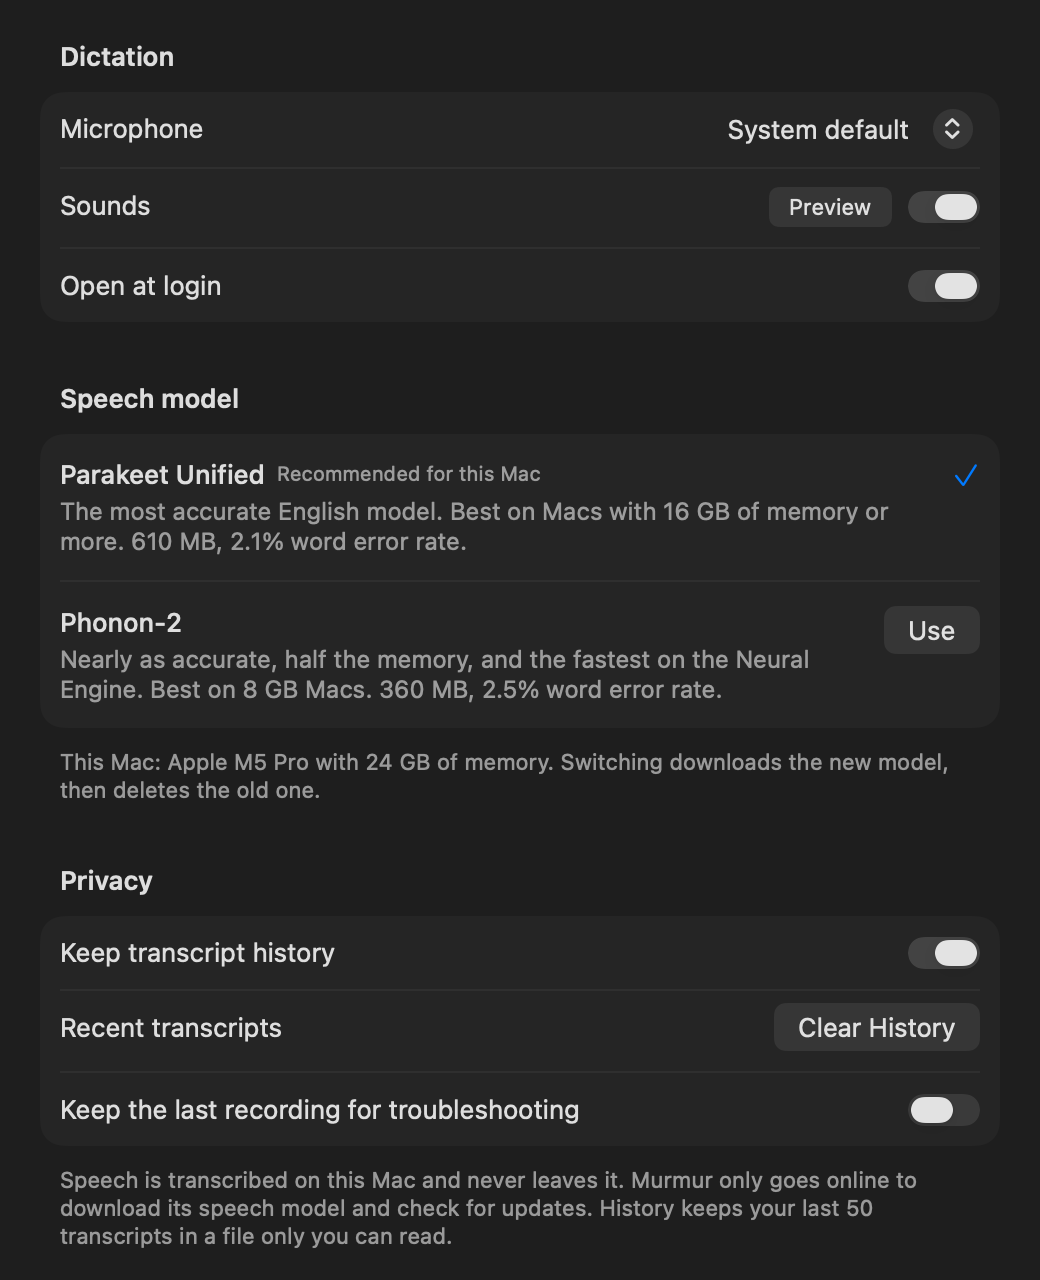
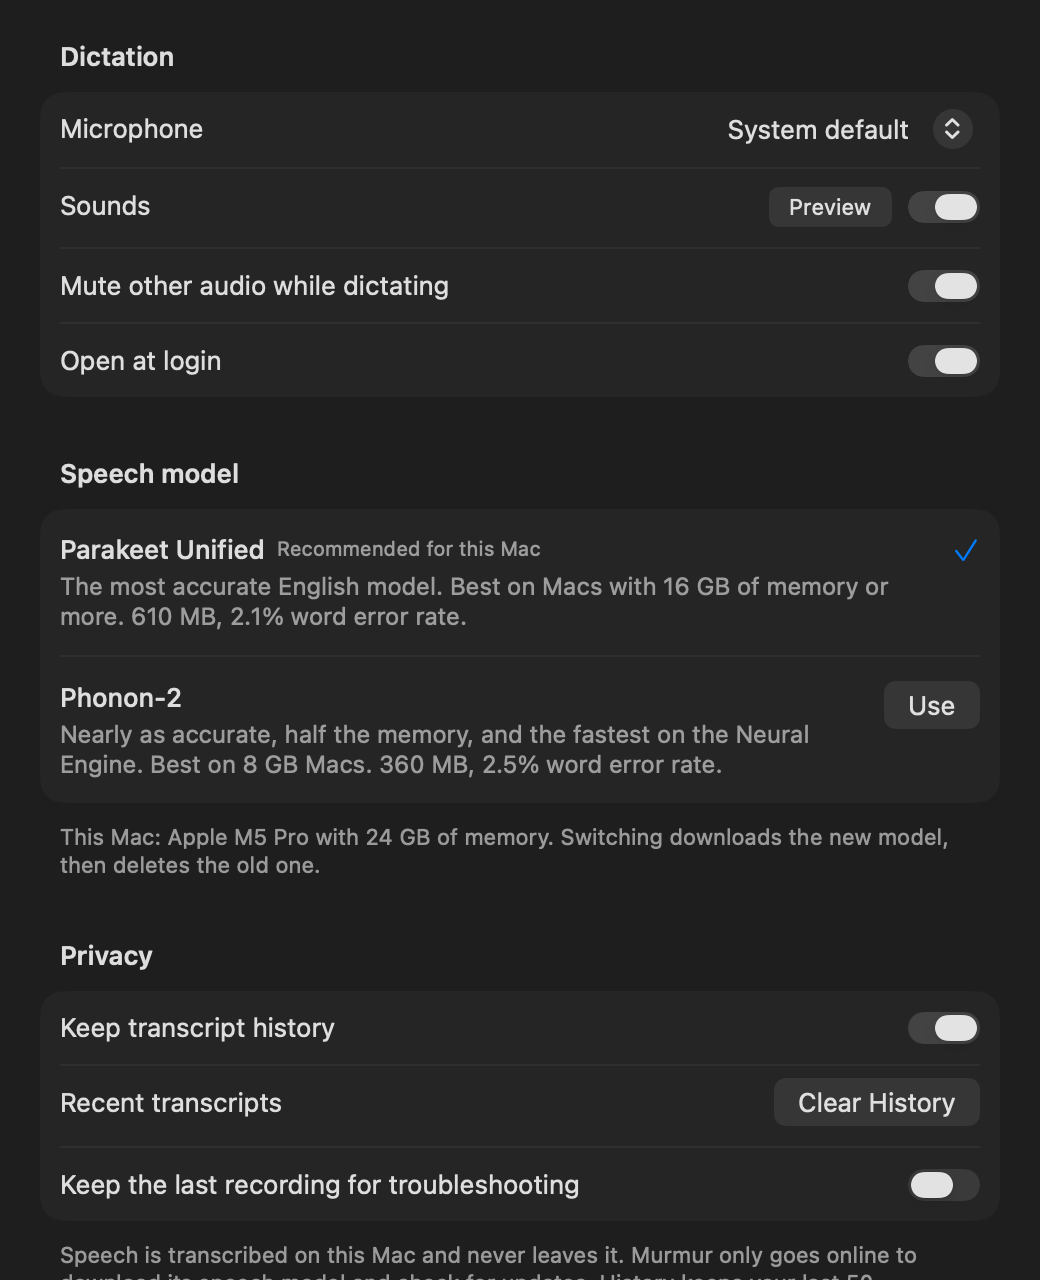
Mute other audio while dictating
On by default; turn it off in Settings. Murmur mutes the output device (or zeroes its volume if it has no mute) once the notch appears and puts it back when you let go, including after a crash.

diff --git a/Sources/Murmur/OutputMute.swift b/Sources/Murmur/OutputMute.swift
@@ -1,0 +1,109 @@
+import CoreAudio
+import Foundation
+
+/// Silences the Mac's sound output while you dictate, then puts it back the way it was.
+/// Uses the output device's mute switch, or its volume on devices without one (some HDMI and
+/// Bluetooth outputs). What to restore is saved before anything changes, so if Murmur quits
+/// mid-dictation the next launch undoes it.
+@MainActor
+enum OutputMute {
+    private static let restoreKey = "outputMuteRestore"
+
+    /// Mutes the current output device, unless it's already silent.
+    static func engage() {
+        guard UserDefaults.standard.dictionary(forKey: restoreKey) == nil,
+            let device = OutputDevice.current(),
+            let uid = AudioDevices.string(device, kAudioDevicePropertyDeviceUID)
+        else { return }
+        if OutputDevice.isSettable(device, kAudioDevicePropertyMute) {
+            let muted: UInt32? = OutputDevice.read(device, kAudioDevicePropertyMute)
+            guard muted == 0 else { return }
+            UserDefaults.standard.set(["uid": uid], forKey: restoreKey)
+            if !OutputDevice.write(device, kAudioDevicePropertyMute, UInt32(1)) { forget() }
+        } else if OutputDevice.isSettable(device, OutputDevice.virtualMainVolume) {
+            let volume: Float32? = OutputDevice.read(device, OutputDevice.virtualMainVolume)
+            guard let volume, volume > 0 else { return }
+            UserDefaults.standard.set(["uid": uid, "volume": volume], forKey: restoreKey)
+            if !OutputDevice.write(device, OutputDevice.virtualMainVolume, Float32(0)) { forget() }
+        }
+    }
+
+    /// Undoes `engage()`, including one left over from a previous run.
+    static func release() {
+        guard let saved = UserDefaults.standard.dictionary(forKey: restoreKey) else { return }
+        forget()
+        guard let uid = saved["uid"] as? String, let device = OutputDevice.withUID(uid) else { return }
+        if let volume = (saved["volume"] as? NSNumber)?.floatValue {
+            // Leave it alone if the volume was turned up in the meantime.
+            let current: Float32? = OutputDevice.read(device, OutputDevice.virtualMainVolume)
+            if current == 0 { OutputDevice.write(device, OutputDevice.virtualMainVolume, volume) }
+        } else {
+            OutputDevice.write(device, kAudioDevicePropertyMute, UInt32(0))
+        }
+    }
+
+    private static func forget() { UserDefaults.standard.removeObject(forKey: restoreKey) }
+}
+
+/// Main-element properties of sound output devices.
+enum OutputDevice {
+    /// 'vmvc' VirtualMainVolume: the 0...1 volume slider, also on devices without dB or mute controls.
+    static let virtualMainVolume = AudioObjectPropertySelector(0x766D_7663)
+
+    /// The system's default output device.
+    static func current() -> AudioDeviceID? {
+        var addr = AudioObjectPropertyAddress(
+            mSelector: kAudioHardwarePropertyDefaultOutputDevice, mScope: kAudioObjectPropertyScopeGlobal,
+            mElement: kAudioObjectPropertyElementMain)
+        var id = AudioDeviceID(0)
+        var size = UInt32(MemoryLayout<AudioDeviceID>.size)
+        let ok = AudioObjectGetPropertyData(AudioObjectID(kAudioObjectSystemObject), &addr, 0, nil, &size, &id)
+        return ok == noErr && id != 0 ? id : nil
+    }
+
+    static func withUID(_ uid: String) -> AudioDeviceID? {
+        var addr = AudioObjectPropertyAddress(
+            mSelector: kAudioHardwarePropertyTranslateUIDToDevice, mScope: kAudioObjectPropertyScopeGlobal,
+            mElement: kAudioObjectPropertyElementMain)
+        var cfUID = uid as CFString
+        var id = AudioDeviceID(0)
+        var size = UInt32(MemoryLayout<AudioDeviceID>.size)
+        let ok = withUnsafePointer(to: &cfUID) { qualifier in
+            AudioObjectGetPropertyData(
+                AudioObjectID(kAudioObjectSystemObject), &addr, UInt32(MemoryLayout<CFString>.size), qualifier,
+                &size, &id)
+        }
+        return ok == noErr && id != kAudioObjectUnknown ? id : nil
+    }
+
+    static func read<T: BitwiseCopyable & Numeric>(
+        _ device: AudioDeviceID, _ selector: AudioObjectPropertySelector,
+        element: UInt32 = kAudioObjectPropertyElementMain
+    ) -> T? {
+        var addr = address(selector, element)
+        guard AudioObjectHasProperty(device, &addr) else { return nil }
+        var value: T = 0
+        var size = UInt32(MemoryLayout<T>.size)
+        return AudioObjectGetPropertyData(device, &addr, 0, nil, &size, &value) == noErr ? value : nil
+    }
+
+    static func isSettable(_ device: AudioDeviceID, _ selector: AudioObjectPropertySelector) -> Bool {
+        var addr = address(selector, kAudioObjectPropertyElementMain)
+        var settable: DarwinBoolean = false
+        return AudioObjectHasProperty(device, &addr)
+            && AudioObjectIsPropertySettable(device, &addr, &settable) == noErr && settable.boolValue
+    }
+
+    @discardableResult
+    static func write<T: BitwiseCopyable>(_ device: AudioDeviceID, _ selector: AudioObjectPropertySelector, _ value: T)
+        -> Bool
+    {
+        var addr = address(selector, kAudioObjectPropertyElementMain)
+        var value = value
+        return AudioObjectSetPropertyData(device, &addr, 0, nil, UInt32(MemoryLayout<T>.size), &value) == noErr
+    }
+
+    private static func address(_ selector: AudioObjectPropertySelector, _ element: UInt32) -> AudioObjectPropertyAddress {
+        AudioObjectPropertyAddress(mSelector: selector, mScope: kAudioDevicePropertyScopeOutput, mElement: element)
+    }
+}

diff --git a/Sources/Murmur/SoundFX.swift b/Sources/Murmur/SoundFX.swift
@@ -170,51 +170,30 @@ private enum FixedLevel {
 
     /// nil when the output is muted.
     static func playbackVolume() -> Float? {
-        guard let device = defaultOutputDevice() else { return 0.2 }
+        guard let device = OutputDevice.current() else { return 0.2 }
         if isMuted(device) { return nil }
         let deviceDB = volumeDecibels(device) ?? virtualVolume(device).map { 40 * log10(max($0, 0.001)) }
         guard let deviceDB else { return 0.2 }
         return min(1, pow(10, (targetDecibels - deviceDB) / 20))
     }
 
-    private static func defaultOutputDevice() -> AudioDeviceID? {
-        var addr = AudioObjectPropertyAddress(
-            mSelector: kAudioHardwarePropertyDefaultOutputDevice, mScope: kAudioObjectPropertyScopeGlobal,
-            mElement: kAudioObjectPropertyElementMain)
-        var id = AudioDeviceID(0)
-        var size = UInt32(MemoryLayout<AudioDeviceID>.size)
-        let ok = AudioObjectGetPropertyData(AudioObjectID(kAudioObjectSystemObject), &addr, 0, nil, &size, &id)
-        return ok == noErr && id != 0 ? id : nil
-    }
-
     private static func isMuted(_ device: AudioDeviceID) -> Bool {
-        var muted: UInt32 = 0
-        return read(device, kAudioDevicePropertyMute, element: kAudioObjectPropertyElementMain, into: &muted) && muted != 0
+        let muted: UInt32? = OutputDevice.read(device, kAudioDevicePropertyMute)
+        return (muted ?? 0) != 0
     }
 
     /// Main (or loudest channel) attenuation in dB; 0 = full volume.
     private static func volumeDecibels(_ device: AudioDeviceID) -> Float? {
         for element in [kAudioObjectPropertyElementMain, 1, 2] {
-            var db: Float32 = 0
-            if read(device, kAudioDevicePropertyVolumeDecibels, element: element, into: &db) { return db }
+            if let db: Float32 = OutputDevice.read(device, kAudioDevicePropertyVolumeDecibels, element: element) {
+                return db
+            }
         }
         return nil
     }
 
     /// Fallback for devices without dB controls (e.g. some Bluetooth): the 0...1 slider value.
     private static func virtualVolume(_ device: AudioDeviceID) -> Float? {
-        var v: Float32 = 0
-        let selector = AudioObjectPropertySelector(0x766D_7663)  // 'vmvc' VirtualMainVolume
-        return read(device, selector, element: kAudioObjectPropertyElementMain, into: &v) ? v : nil
-    }
-
-    private static func read<T: BitwiseCopyable>(
-        _ device: AudioDeviceID, _ selector: AudioObjectPropertySelector, element: UInt32, into value: inout T
-    ) -> Bool {
-        var addr = AudioObjectPropertyAddress(
-            mSelector: selector, mScope: kAudioDevicePropertyScopeOutput, mElement: element)
-        guard AudioObjectHasProperty(device, &addr) else { return false }
-        var size = UInt32(MemoryLayout<T>.size)
-        return AudioObjectGetPropertyData(device, &addr, 0, nil, &size, &value) == noErr
+        OutputDevice.read(device, OutputDevice.virtualMainVolume)
     }
 }

diff --git a/Sources/Murmur/AppController.swift b/Sources/Murmur/AppController.swift
@@ -52,6 +52,7 @@ final class AppController {
     @ObservationIgnored private var loadTask: Task<Void, Never>?
     @ObservationIgnored private var revealTask: Task<Void, Never>?
     @ObservationIgnored private var collapseTask: Task<Void, Never>?
+    @ObservationIgnored private var muteTask: Task<Void, Never>?
     @ObservationIgnored private var axPoll: Timer?
     @ObservationIgnored private var levelBucket: Float = 0
     @ObservationIgnored private var levelBucketStart = Date()
@@ -60,6 +61,11 @@ final class AppController {
     var sounds: Bool {
         get { UserDefaults.standard.object(forKey: "sounds") as? Bool ?? true }
         set { UserDefaults.standard.set(newValue, forKey: "sounds") }
+    }
+
+    /// Mute the Mac's sound output while dictating.
+    var muteWhileDictating: Bool {
+        UserDefaults.standard.object(forKey: "muteWhileDictating") as? Bool ?? true
     }
 
     var micUID: String? {
@@ -88,6 +94,7 @@ final class AppController {
         ) { [weak self] in self?.pasteLast() }
 
         if !Self.keepLastRecording { Self.deleteLastRecording() }
+        OutputMute.release()  // in case the last run quit mid-dictation
         if !Permissions.accessibility {
             if !firstRun { Permissions.promptAccessibility() }
             // Global key monitors only start delivering once trusted; reinstall when that happens.
@@ -237,11 +244,30 @@ final class AppController {
     private func reveal() {
         guard isRecording, !showRecording else { return }
         showRecording = true
+        muteOutput()
+    }
+
+    /// Mutes once the notch is up, so ⌥-shortcuts never blip the sound. Waits out the open
+    /// sound first, which muting would cut off.
+    private func muteOutput() {
+        guard muteWhileDictating else { return }
+        let delay = sounds ? 200 : 0
+        muteTask = Task { [weak self] in
+            try? await Task.sleep(for: .milliseconds(delay))
+            guard let self, !Task.isCancelled, self.isRecording else { return }
+            OutputMute.engage()
+        }
+    }
+
+    private func unmuteOutput() {
+        muteTask?.cancel()
+        OutputMute.release()
     }
 
     func stopRecording() {
         guard isRecording else { return }
         revealTask?.cancel()
+        unmuteOutput()
         let samples = recorder.stop()
         recordingEndedAt = Date()
         locked = false
@@ -285,6 +311,7 @@ final class AppController {
     func cancelRecording() {
         guard isRecording else { return }
         revealTask?.cancel()
+        unmuteOutput()
         _ = recorder.stop()
         locked = false
         discardSession()

diff --git a/Sources/Murmur/SettingsView.swift b/Sources/Murmur/SettingsView.swift
@@ -6,6 +6,7 @@ struct SettingsView: View {
     let windows: Windows
 
     @AppStorage("sounds") private var sounds = true
+    @AppStorage("muteWhileDictating") private var muteWhileDictating = true
     @AppStorage("micUID") private var micUID = ""
     @AppStorage("keepHistory") private var keepHistory = true
     @AppStorage("keepLastRecording") private var keepLastRecording = false
@@ -31,6 +32,7 @@ struct SettingsView: View {
                         Toggle("", isOn: $sounds).labelsHidden().toggleStyle(.switch)
                     }
                 }
+                Toggle("Mute other audio while dictating", isOn: $muteWhileDictating)
                 Toggle("Open at login", isOn: $openAtLogin)
                     .onChange(of: openAtLogin) { _, on in setLoginItem(on) }
             }

diff --git a/Sources/Murmur/AudioRecorder.swift b/Sources/Murmur/AudioRecorder.swift
@@ -180,7 +180,7 @@ enum AudioDevices {
         return list.reduce(0) { $0 + Int($1.mNumberChannels) }
     }
 
-    private static func string(_ id: AudioDeviceID, _ selector: AudioObjectPropertySelector) -> String? {
+    static func string(_ id: AudioDeviceID, _ selector: AudioObjectPropertySelector) -> String? {
         var addr = AudioObjectPropertyAddress(
             mSelector: selector, mScope: kAudioObjectPropertyScopeGlobal, mElement: kAudioObjectPropertyElementMain)
         var value: Unmanaged<CFString>?

diff --git a/Sources/Murmur/MurmurApp.swift b/Sources/Murmur/MurmurApp.swift
@@ -71,6 +71,10 @@ final class AppDelegate: NSObject, NSApplicationDelegate, NSMenuDelegate {
         observeUpdates()
     }
 
+    func applicationWillTerminate(_ notification: Notification) {
+        OutputMute.release()
+    }
+
     /// Opening Murmur again while it's running (Finder, Spotlight) shows Settings.
     func applicationShouldHandleReopen(_ sender: NSApplication, hasVisibleWindows flag: Bool) -> Bool {
         if !flag { Windows.isOnboarded ? windows.showSettings() : windows.showOnboarding() }

diff --git a/README.md b/README.md
@@ -101,7 +101,9 @@ rewriting a word: say "first… second… third…" and you get a numbered list,
 and you get paragraphs, and a "Hey Sam," opener or "Thanks, Mason" sign-off gets a line of its own.
 Say "new paragraph" or "new line" to break it yourself.
 
-The menu bar icon has recent transcripts, microphone selection, sounds, and Settings.
+While you dictate, Murmur mutes your Mac's sound so music and videos don't talk over you, and
+puts it back when you let go (turn this off in Settings). The menu bar icon has recent
+transcripts, microphone selection, sounds, and Settings.
 
 ## Speech models
 
@@ -192,6 +194,7 @@ Sources/Murmur/
   Transcriber.swift     Parakeet Unified / Phonon-2 via FluidAudio
   AudioRecorder.swift   AVAudioEngine capture → 16 kHz mono, levels, input devices
   HotkeyMonitor.swift   right-⌥ hold / double-tap / Esc
+  OutputMute.swift      mutes sound output while you dictate, restores it after
   TextInserter.swift    focus detection, clipboard-preserving paste
   SmartFormat.swift     casing, punctuation, and spacing from the text around the caret
   Layout.swift          paragraphs and lists from pauses and spoken ordinals
